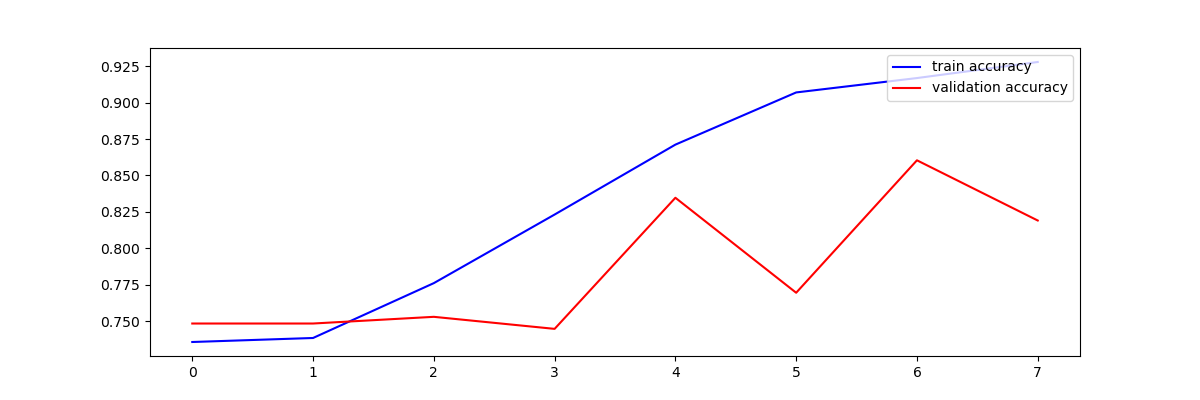
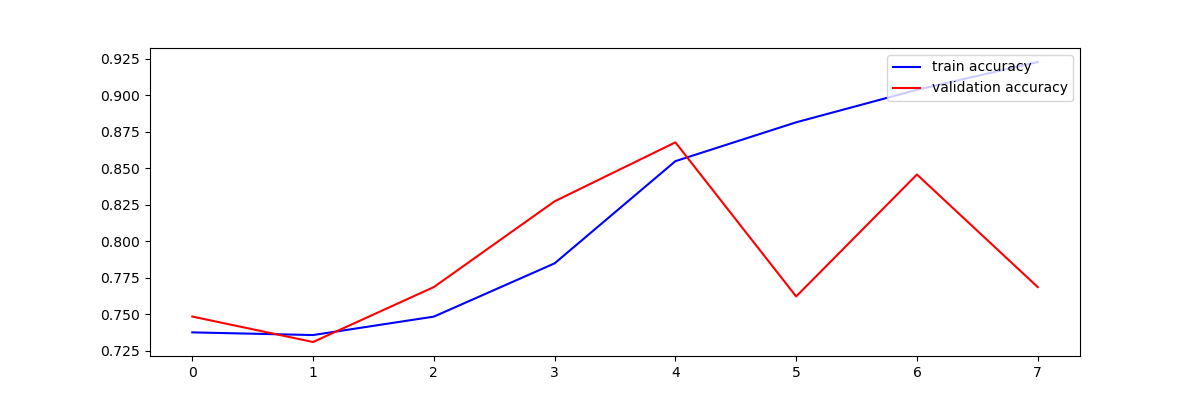
Deubugged train , debugg vocab_size

diff --git a/src/models/sentiment_analysis/train/lstm.py b/src/models/sentiment_analysis/train/lstm.py
@@ -55,6 +55,7 @@ class Lstm(Classifier):
         self.model = ""
         self.tokenizer = Tokenizer()
         self.embed_matrix = ""
+        self.vocab_size = 0
         if self.load_model:
             if not FileUtil.check_dir_exists(self.saved_model_path):
                 raise FileNotFoundError("There is no saved model in path",
@@ -65,7 +66,10 @@ class Lstm(Classifier):
         nltk.download('punkt')
         df['cleaned_text_new'] = df['cleaned_text'].apply(
             lambda x: word_tokenize(x))
-
+        self.tokenizer.fit_on_texts(df['cleaned_text'])
+        # number of unique text in the data
+        vocab_size = len(self.tokenizer.word_index) + 1
+        self.vocab_size = vocab_size
         return df
 
     def train_w2v_model(self, df):
@@ -82,10 +86,6 @@ class Lstm(Classifier):
 
     def get_word_vectors(self, df):
 
-        self.tokenizer.fit_on_texts(df['cleaned_text'])
-        # number of unique text in the data
-        vocab_size = len(self.tokenizer.word_index) + 1
-        self.vocab_size = vocab_size
         # this converts texts into some numeric sequences
         encd_rev = self.tokenizer.texts_to_sequences(df['cleaned_text'])
 

diff --git a/src/models/sentiment_analysis/test/predict.py b/src/models/sentiment_analysis/test/predict.py
@@ -7,7 +7,7 @@ from src.models.sentiment_analysis.train.bert import BERT
 from src.models.sentiment_analysis.train.lstm import Lstm
 from src.models.sentiment_analysis.train.logreg import LOGREG
 from src.utils.file_util import FileUtil
-from sklearn.model_selection import train_test_split
+
 
 model_name = FileUtil.get_config()["best_sentiment_analysis_model"]
 
@@ -39,6 +39,7 @@ def predict_sentiment(df, model_name=model_name):
         df["sentiment_prob"] = probs
     else:
         model = Lstm(True)
+        model.tokenize(df)
         label, probs = model.predict(df)
         df["sentiment"] = label
         df["sentiment_prob"] = probs

diff --git a/src/models/sentiment_analysis/train/train.py b/src/models/sentiment_analysis/train/train.py
@@ -47,8 +47,6 @@ def sentiment_analysis_train():
     lstm_model.plot_training_loss()
     lstm_ap, lstm_pr_auc = lstm_model.evaluate(valid)
 
-    #  LogReg and LSTM training then add to the metrics below
-
     logreg_model = LOGREG()
     df_logreg = df.copy()
     tokenized_df = logreg_model.tokenize(df_logreg)
